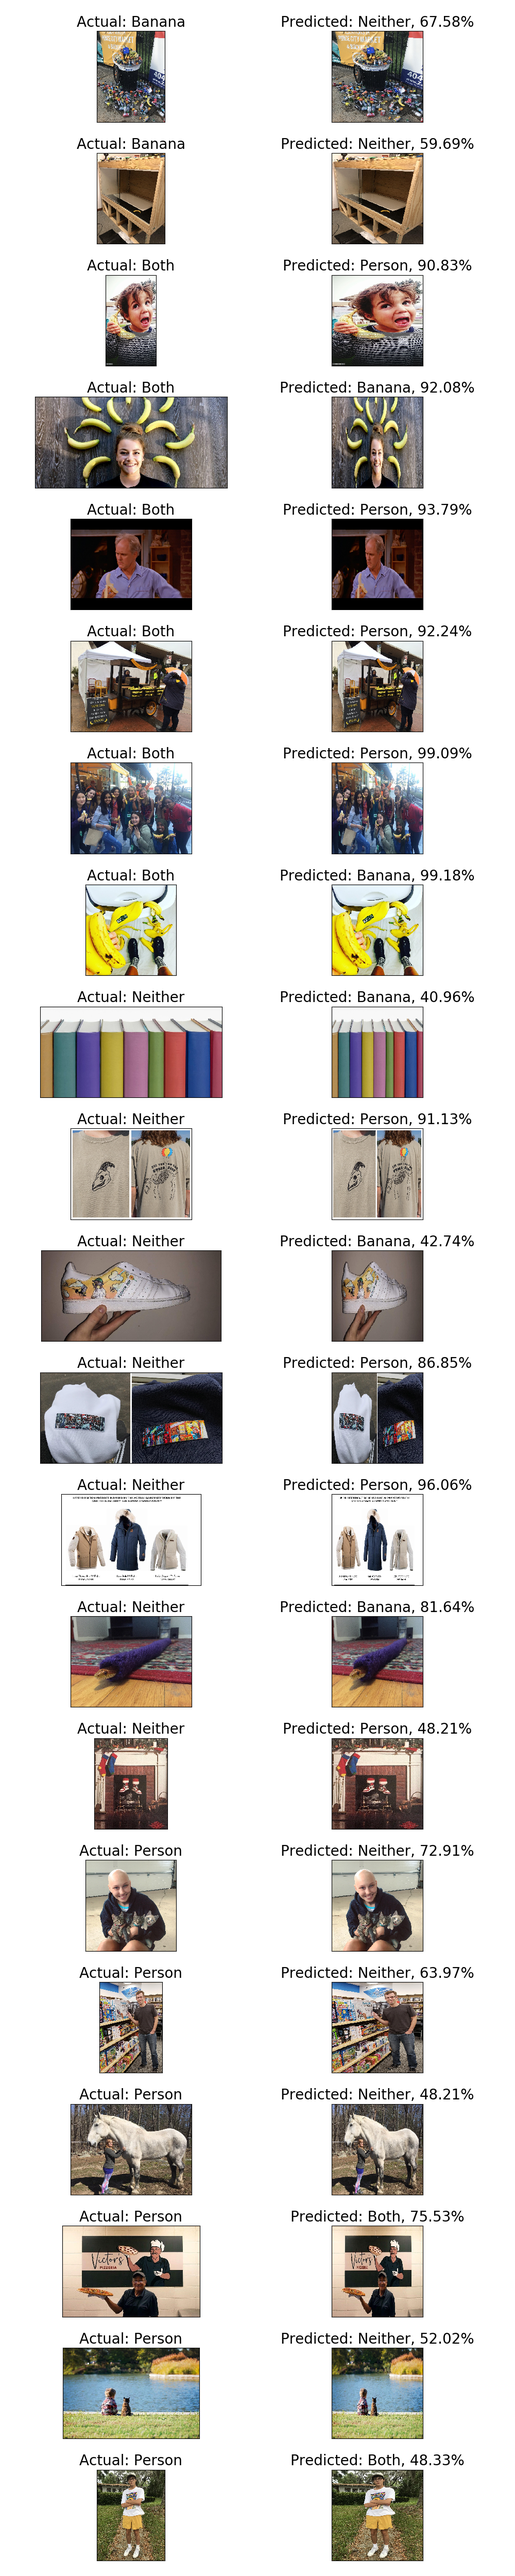
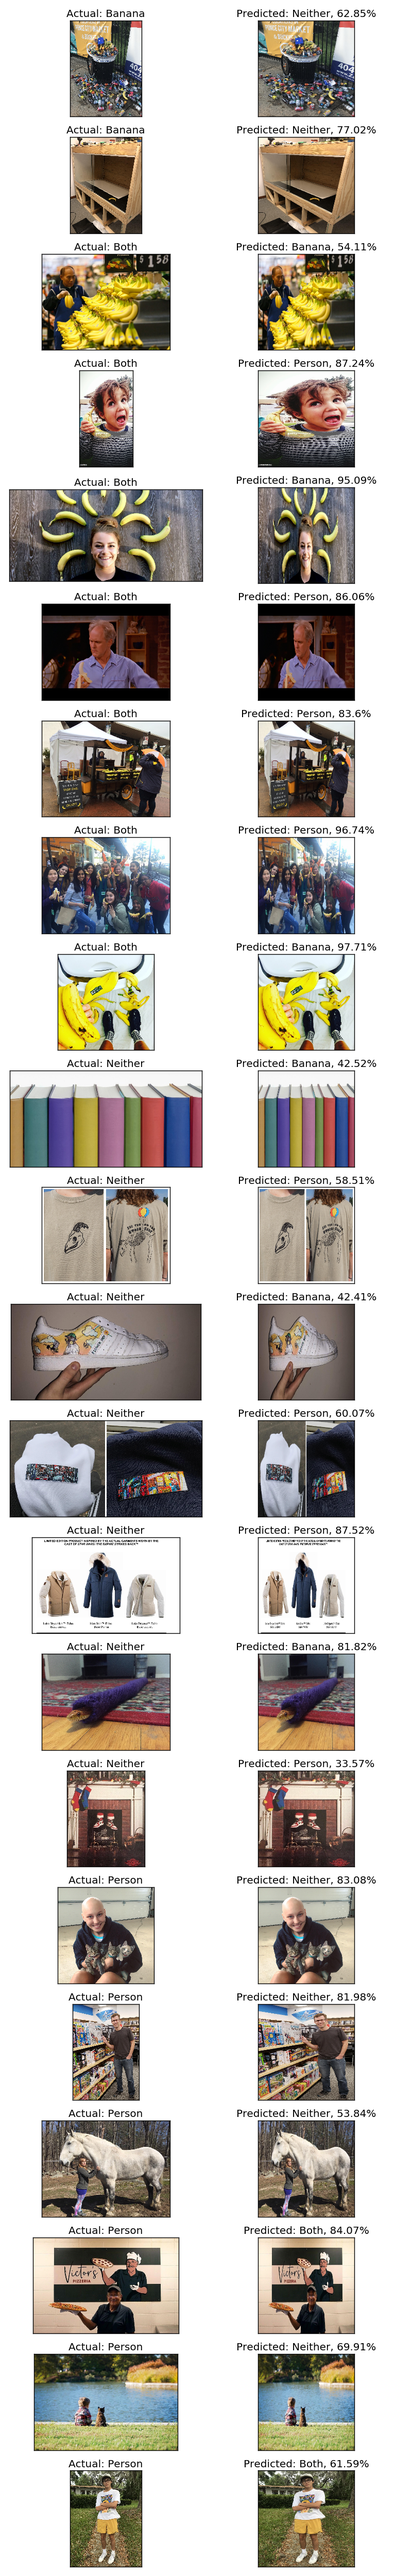
update

diff --git a/src/transfer_CNN.py b/src/transfer_CNN.py
@@ -18,8 +18,8 @@ from keras import callbacks
 from print_pretty_confusion_matrix import plot_confusion_matrix_from_data
 from sklearn.metrics import classification_report
 import matplotlib.pyplot as plt
+mpl.style.use('classic')
 np.random.seed(1337)  # for reproducibility
-
 
 
 class TranseferModel():
@@ -118,7 +118,7 @@ class TranseferModel():
         hist = callbacks.History()
         es = callbacks.EarlyStopping(monitor='val_loss',
                                             min_delta=0,
-                                            patience=3,
+                                            patience=4,
                                             verbose=1,
                                             mode='auto')
         if not os.path.exists('tensorboard_logs/transfer_CNN_tensorboard_with_weights'):
@@ -145,7 +145,7 @@ class TranseferModel():
                                   class_weight=self.class_weights,
                                   validation_data=self.validation_generator,
                                   validation_steps=len(self.validation_generator),
-                                  callbacks=[mc, tensorboard, es, hist])
+                                  callbacks=[mc, tensorboard, hist])
         # train more layers
         self.change_trainable_layers(freeze_indices[1])
 
@@ -158,7 +158,7 @@ class TranseferModel():
                                   class_weight=self.class_weights,
                                   validation_data=self.validation_generator,
                                   validation_steps=len(self.validation_generator),
-                                  callbacks=[mc, tensorboard, es, hist])
+                                  callbacks=[mc, tensorboard, hist])
 
         return self.history1, self.history2
 
@@ -190,7 +190,16 @@ class TranseferModel():
         return
 
     def return_failed_images(self,dir,data,pred):
-        mpl.rcParams.update({'figure.figsize'      : (10,50)})
+        mpl.rcParams.update({
+            'figure.figsize'      : (8,50),
+            # 'font.size'           : 20.0,
+            # 'axes.titlesize'      : 'medium',
+            # 'axes.labelsize'      : 'medium',
+            # 'xtick.labelsize'     : 'medium',
+            # 'ytick.labelsize'     : 'medium',
+            # 'legend.fontsize'     : 'large',
+            # 'legend.loc'          : 'upper right'
+        })
         failed = data[data[:,0]!=data[:,2]]
         fig, axes = plt.subplots(len(failed),2)
 
@@ -230,7 +239,7 @@ class TranseferModel():
         plt.title('Model accuracy')
         plt.ylabel('Accuracy')
         plt.xlabel('Epoch')
-        plt.axvline(5.5,color=k,linestyle='--')
+        plt.axvline(5,color='k',linestyle='dotted')
         plt.legend(['Train', 'Test'], loc='upper left')
         plt.tight_layout()
         plt.savefig('../graphics/Transfer_CNN_acc_hist.png')
@@ -244,7 +253,7 @@ class TranseferModel():
         plt.title('Model loss')
         plt.ylabel('Loss')
         plt.xlabel('Epoch')
-        plt.axvline(5.5,color=k,linestyle='--')
+        plt.axvline(5,color='k',linestyle='dotted')
         plt.legend(['Train', 'Test'], loc='upper left')
         plt.tight_layout()
         plt.savefig('../graphics/Transfer_CNN_loss_hist.png')
@@ -255,14 +264,14 @@ if __name__ == '__main__':
     transfer_CNN = TranseferModel()
     transfer_CNN.make_generators(dir)
     freeze_indices = [132, 126]
-    optimizers = [Adam(lr=0.0005), Adam(lr=0.000005)]
+    optimizers = [Adam(lr=0.0005), Adam(lr=0.00005)]
 
     transfer_CNN.fit(freeze_indices,optimizers)
     transfer_CNN.plot_history()
 
-    # plot model
-    from keras.utils import plot_model
-    plot_model(transfer_CNN.model, to_file='../graphics/transfer_CNN_model.png')
+    # # plot model
+    # from keras.utils import plot_model
+    # plot_model(transfer_CNN.model, to_file='../graphics/transfer_CNN_model.png')
 
     metrics, data, pred = transfer_CNN.best_training_model()
     transfer_CNN.print_matrix(data[:,0],data[:,2])
